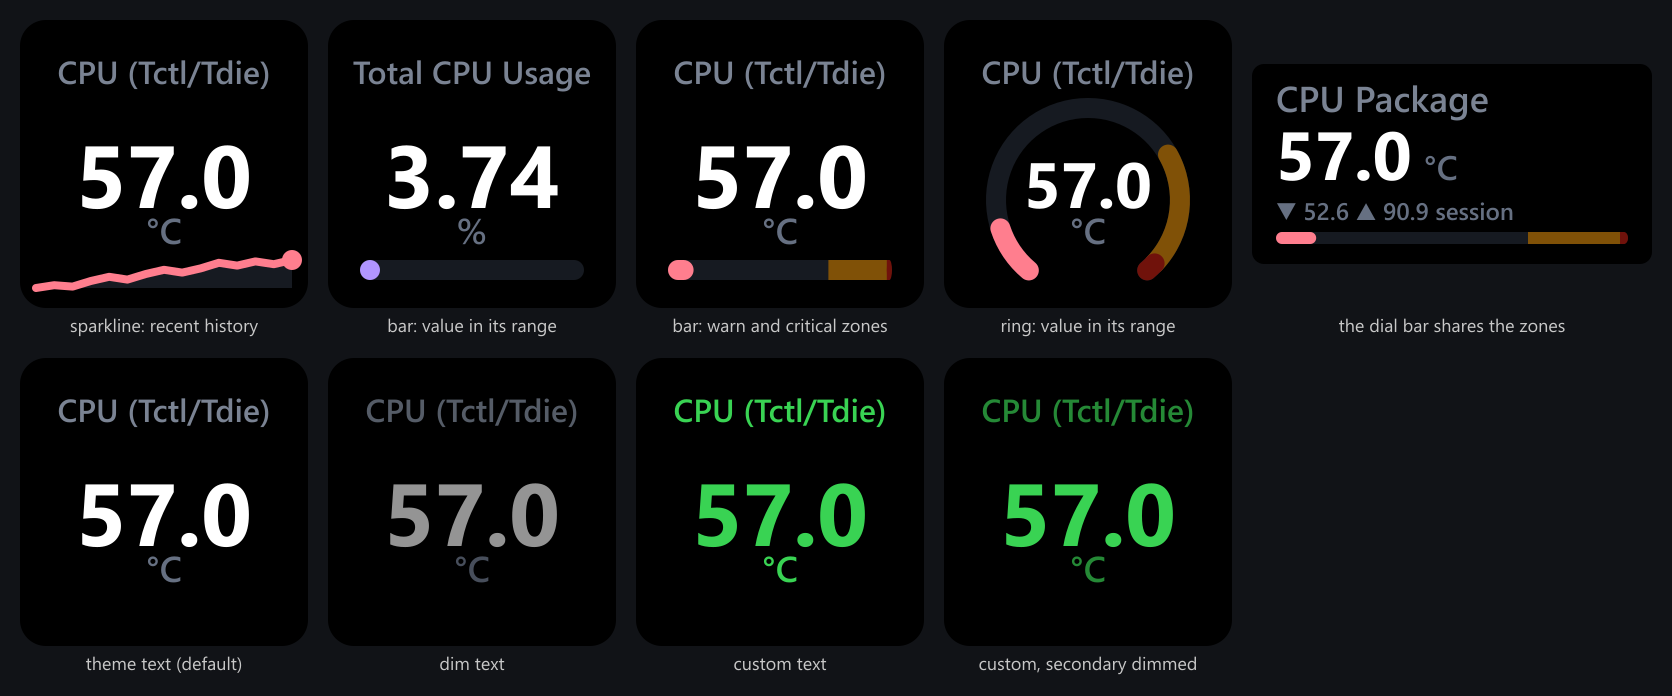
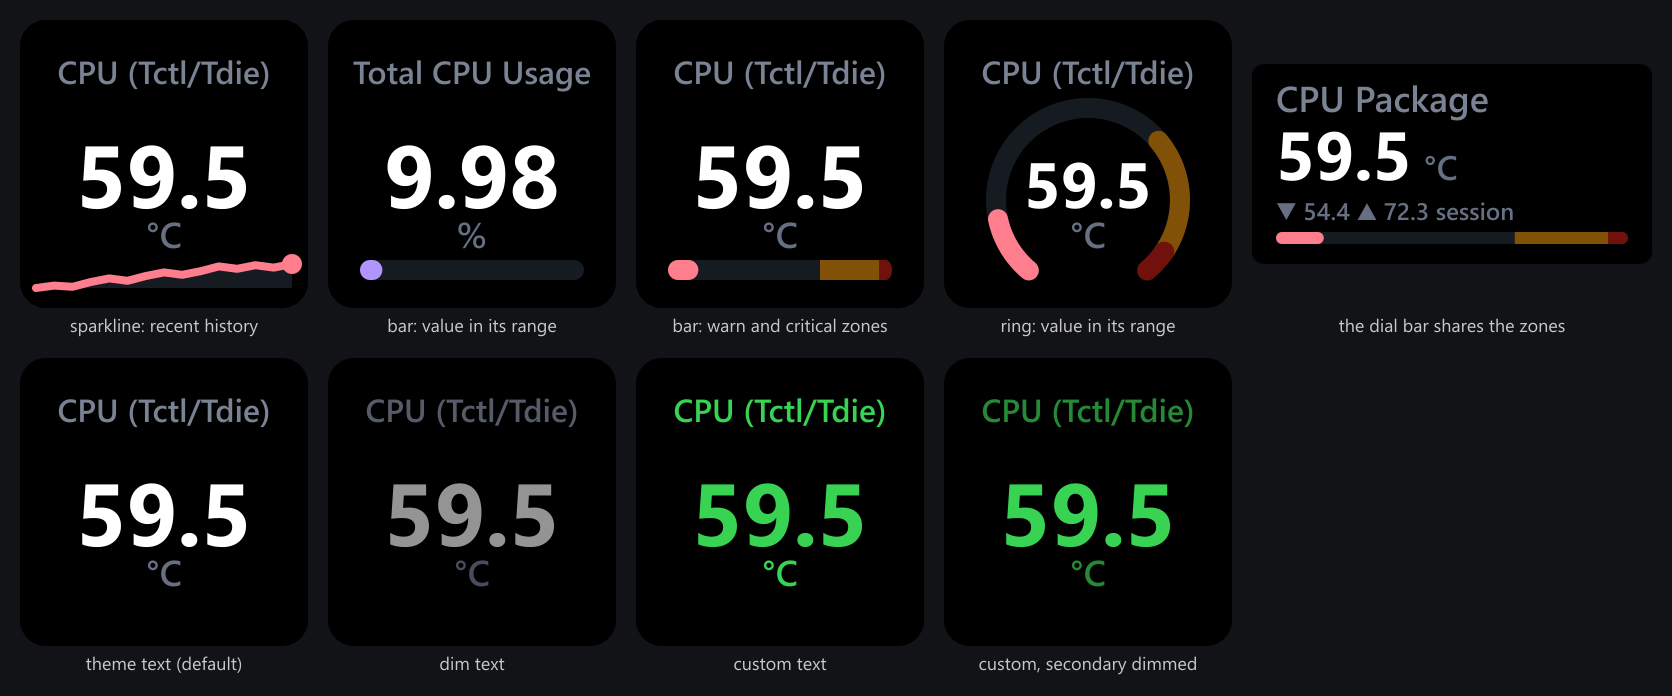
feat(key): balanced unit corridor with spark ink pinned at the band edge
Ink-level measurement (8x raster of the production renderer, elements
isolated by pixel diff) showed the single-key unit sitting 20-25
percent closer to the value than to the sparkline (4.5-5.0 px vs
5.9-6.1), and optical mass makes a heavy 26-52 px numeral need more
air than a 4 px hairline, not less. The spark line span is now inset
for its stroke (y 122-134, so worst-case ink lands exactly on the
y=120 band edge instead of overshooting to 118) and the unit baseline
settles at 114, still 18 px.

Measured after: 6.5-7.0 px of air up to the value vs 5.9 down to the
band on every normal unit, descender units (Mbps) keep the same 1.9 px
band clearance they shipped with, ring clearance is 9.2 px worst case,
and the unit gives up no size. The three single-key goldens are
re-baselined; dual, quad, and dial output is byte-identical.

diff --git a/src/ui/key-renderer.ts b/src/ui/key-renderer.ts
@@ -4,7 +4,8 @@
  * no CSS blocks, no dominant-baseline, local fonts only).
  *
  * Geometry is locked by the display spec: anchors move only when the spec
- * does (the unit baseline lifted 118→112 in the 2026-07 bottom-zone fix);
+ * does (the unit baseline lifted 118→112 in the 2026-07 bottom-zone fix,
+ * then settled at 114 when the spark span was inset for its stroke);
  * value and label glyph sizes flex with content.
  */
 import { estimateKeyTextWidth, fitTextLadder, truncateLabel, type FittedText } from "./format";
@@ -34,10 +35,14 @@ export function svgOpen(w: number, h: number, bg: string): string[] {
 	];
 }
 
-/** Spark strip box: x 8–136, y 120–134. Sits above a bottom margin so the
- * line at a session low and the r=5 end dot (down to y≈139) never clip the
- * 144 key edge. */
-const SPARK = { x: 8, y: 120, w: 128, h: 14 } as const;
+/** Spark strip box: x 8–136, line span y 122–134 (underfill bottom stays
+ * 134). The polyline tops out 2 px above its span (stroke 4), so the top
+ * inset pins worst-case spark ink at exactly the y=120 band edge instead
+ * of overshooting to 118; that reclaimed air is what lets the unit sit at
+ * 114 with an even corridor. Sits above a bottom margin so the line at a
+ * session low and the r=5 end dot (down to y≈139) never clip the 144 key
+ * edge. */
+const SPARK = { x: 8, y: 122, w: 128, h: 12 } as const;
 /** Accent polyline stroke; the spec's absolute minimum is 3. */
 const SPARK_STROKE = 4;
 const SPARK_SAMPLES = 36;
@@ -267,11 +272,12 @@ export function renderReadingKey(opts: ReadingKeyOptions): string {
 	}
 	parts.push(`<text x="72" y="94" text-anchor="middle" font-family="${FONT}" font-size="${ring ? ringValueFontSize(valueText) : valueFontSize(valueText)}" font-weight="700" fill="${text.value}">${escapeXml(valueText)}</text>`);
 	if (unitText !== "") {
-		// Baseline 112/18: the spark/bar band draws LATER and paints over what
-		// it reaches (spark ink tops at y=118 whenever the line rides its
-		// session max), so the unit clears it — measured 4.8 px up to the
-		// value, 5.8 px down to worst-case spark ink.
-		parts.push(`<text x="72" y="112" text-anchor="middle" font-family="${FONT}" font-size="18" font-weight="600" fill="${text.unit}">${escapeXml(unitText)}</text>`);
+		// Baseline 114/18: worst-case spark/bar ink starts at y=120 (the spark
+		// span is inset for its stroke), so the corridor is optically balanced
+		// with the larger gap against the heavier neighbor — measured ink air
+		// 6.5–7.0 up to the value vs 5.9 down to the band, and descender units
+		// (Mbps) keep the same ≥1.9 px band clearance the 112 baseline had.
+		parts.push(`<text x="72" y="114" text-anchor="middle" font-family="${FONT}" font-size="18" font-weight="600" fill="${text.unit}">${escapeXml(unitText)}</text>`);
 	}
 	if (gauge !== undefined && gauge.kind === "bar") {
 		parts.push(...keyBarSvg(gauge, palette));

diff --git a/test/key-renderer.test.ts b/test/key-renderer.test.ts
@@ -76,12 +76,13 @@ describe("value shrink ramp (digits+dot+sign; unit excluded)", () => {
 describe("anchors never move", () => {
 	for (const history of [undefined, [50, 60, 55, 70]]) {
 		const name = history === undefined ? "without sparkline" : "with sparkline";
-		it(`value y=94, unit y=112, label y=32 ${name}`, () => {
+		it(`value y=94, unit y=114, label y=32 ${name}`, () => {
 			const svg = render({ history });
 			assert.match(svg, /<text x="72" y="94" /);
-			// Unit baseline 112/18px clears the spark band, whose ink tops out
-			// at y=118 and paints over anything it reaches (drawn later).
-			assert.match(svg, /<text x="72" y="112" [^>]*font-size="18" font-weight="600"/);
+			// Unit baseline 114/18px: worst-case spark ink starts at y=120 (the
+			// line span is inset for its stroke), so the corridor is balanced
+			// with the larger air against the heavier value block above.
+			assert.match(svg, /<text x="72" y="114" [^>]*font-size="18" font-weight="600"/);
 			// The label anchor is fixed; its size adapts ("CPU Package" fits 20).
 			assert.match(svg, /<text x="72" y="32" text-anchor="middle" [^>]*font-size="20" font-weight="600"/);
 		});
@@ -89,7 +90,7 @@ describe("anchors never move", () => {
 
 	it("unit omitted when empty, anchors unchanged", () => {
 		const svg = render({ unitText: "" });
-		assert.doesNotMatch(svg, /y="112"/);
+		assert.doesNotMatch(svg, /y="114"/);
 		assert.match(svg, /<text x="72" y="94" /);
 	});
 });
@@ -171,14 +172,14 @@ describe("label fitting and badge collision", () => {
 describe("sparkline strip", () => {
 	const history = Array.from({ length: 40 }, (_, i) => 50 + Math.sin(i) * 10);
 
-	it("caps at 36 samples inside x8–136, y120–134", () => {
+	it("caps at 36 samples inside x8–136, y122–134 (stroke ink stays at 120)", () => {
 		const svg = render({ history });
 		const points = (svg.match(/<polyline points="([^"]+)"/) as RegExpMatchArray)[1] as string;
 		const pairs = points.split(" ").map((p) => p.split(",").map(Number) as [number, number]);
 		assert.equal(pairs.length, 36);
 		for (const [x, y] of pairs) {
 			assert.ok(x >= 8 && x <= 136, `x ${x}`);
-			assert.ok(y >= 120 && y <= 134, `y ${y}`);
+			assert.ok(y >= 122 && y <= 134, `y ${y}`);
 		}
 	});
 
@@ -197,7 +198,7 @@ describe("sparkline strip", () => {
 
 	it("end dot r=5 in accent at the last sample", () => {
 		const svg = render({ history: [10, 20, 30] }); // last = max → top of strip
-		assert.match(svg, new RegExp(`<circle cx="136\\.0" cy="120\\.0" r="5" fill="${VOID.accent}"/>`));
+		assert.match(svg, new RegExp(`<circle cx="136\\.0" cy="122\\.0" r="5" fill="${VOID.accent}"/>`));
 	});
 
 	it("no sparkline without 2+ samples", () => {
@@ -213,7 +214,7 @@ describe("alert pass recolors the whole key", () => {
 		assert.match(svg, /<rect width="144" height="144" fill="#E8940D"\/>/);
 		assert.match(svg, /y="94"[^>]*fill="#1C1200"/);
 		assert.match(svg, /y="32"[^>]*fill="#402C00"/); // label
-		assert.match(svg, /y="112"[^>]*fill="#553C00"/); // unit
+		assert.match(svg, /y="114"[^>]*fill="#553C00"/); // unit
 		assert.match(svg, /<polyline [^>]*stroke="#402C00"/); // accent, not themed
 		assert.match(svg, /<path [^>]*fill="#C67A06"/); // track, not themed
 	});
@@ -322,7 +323,7 @@ describe("key Bar gauge", () => {
 	it("value, unit and label anchors stay locked; no sparkline alongside", () => {
 		const svg = render({ gauge: barGauge({}), history: [1, 2, 3] });
 		assert.match(svg, /<text x="72" y="94" /);
-		assert.match(svg, /<text x="72" y="112" /);
+		assert.match(svg, /<text x="72" y="114" /);
 		assert.match(svg, /<text x="72" y="32" /);
 		assert.doesNotMatch(svg, /polyline/);
 	});
@@ -458,7 +459,7 @@ describe("key text colors", () => {
 	it("custom without secondary dim: label, unit and badge take the exact color", () => {
 		const svg = render({ text: custom, statBadge: "MAX" });
 		assert.match(svg, /y="32"[^>]*fill="#660000"/);
-		assert.match(svg, /y="112"[^>]*fill="#660000"/);
+		assert.match(svg, /y="114"[^>]*fill="#660000"/);
 		assert.match(svg, />MAX<\/text>/);
 		assert.match(svg, /x="72" y="48"[^>]*fill="#660000"/);
 	});
@@ -466,7 +467,7 @@ describe("key text colors", () => {
 	it("custom with secondary dim: value exact, secondary stepped toward bg", () => {
 		const svg = render({ text: customDim, statBadge: "MAX" });
 		assert.match(svg, /y="94"[^>]*fill="#660000"/);
-		assert.match(svg, new RegExp(`y="112"[^>]*fill="${customDim.unit}"`));
+		assert.match(svg, new RegExp(`y="114"[^>]*fill="${customDim.unit}"`));
 		assert.notEqual(customDim.unit, "#660000");
 	});
 

diff --git a/test/compat.test.ts b/test/compat.test.ts
@@ -5,10 +5,12 @@
  * faces and the quad key are the untouched 1.2.0 capture; the single and
  * dual key entries were re-baselined for the adaptive label typography
  * (issue #3), and the three single-key entries again for the measured
- * advance table, the unit baseline lift to 112/18px (bottom-zone fix) and
- * the stat badge's move into the title/number gap — label/unit/badge
- * geometry changed intentionally there, and these fixtures pin everything
- * else (anchors, values, sparkline) against drift. A theme-mode text
+ * advance table, the unit baseline lift to 112/18px (bottom-zone fix), the
+ * stat badge's move into the title/number gap, and once more for the
+ * balanced unit corridor (unit 114, spark span inset to pin stroke ink at
+ * y=120) — label/unit/badge geometry changed intentionally there, and
+ * these fixtures pin everything else (anchors, values, sparkline) against
+ * drift. A theme-mode text
  * resolution must also be byte-identical to passing no text at all.
  */
 import assert from "node:assert/strict";